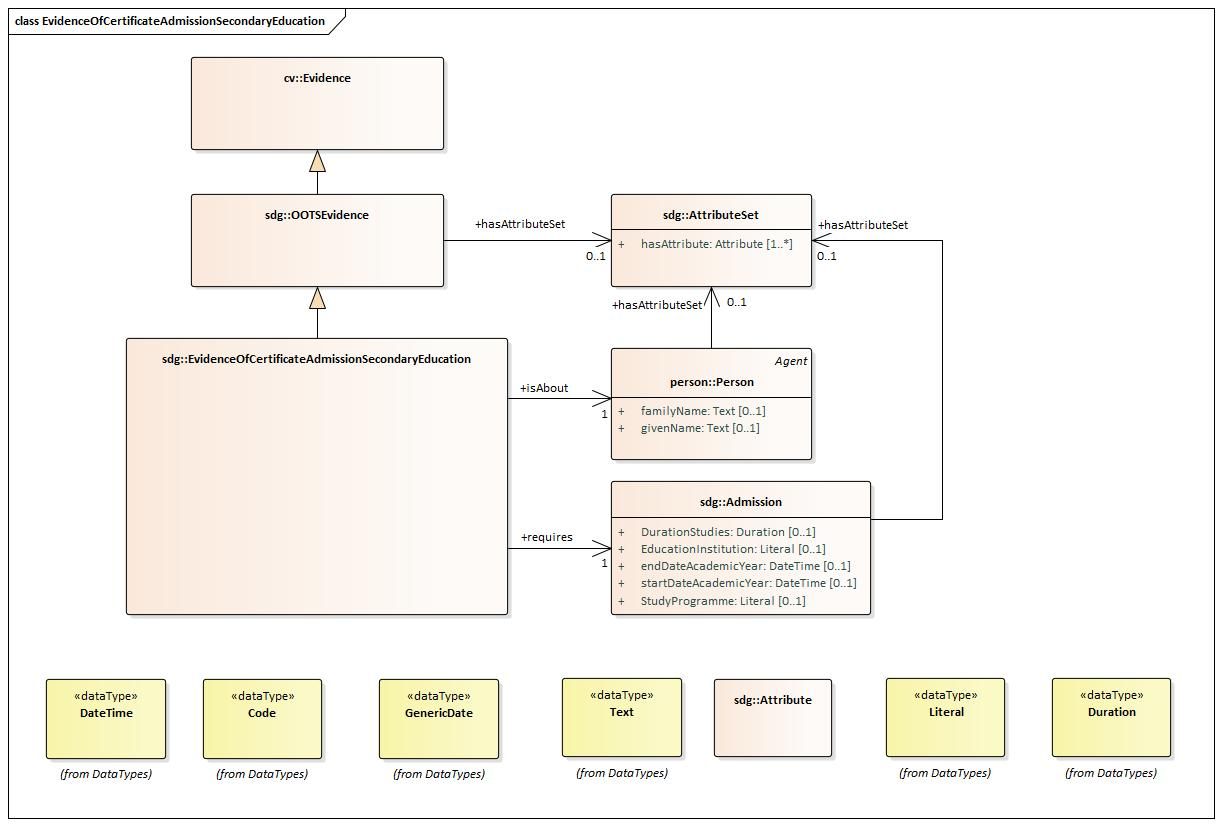
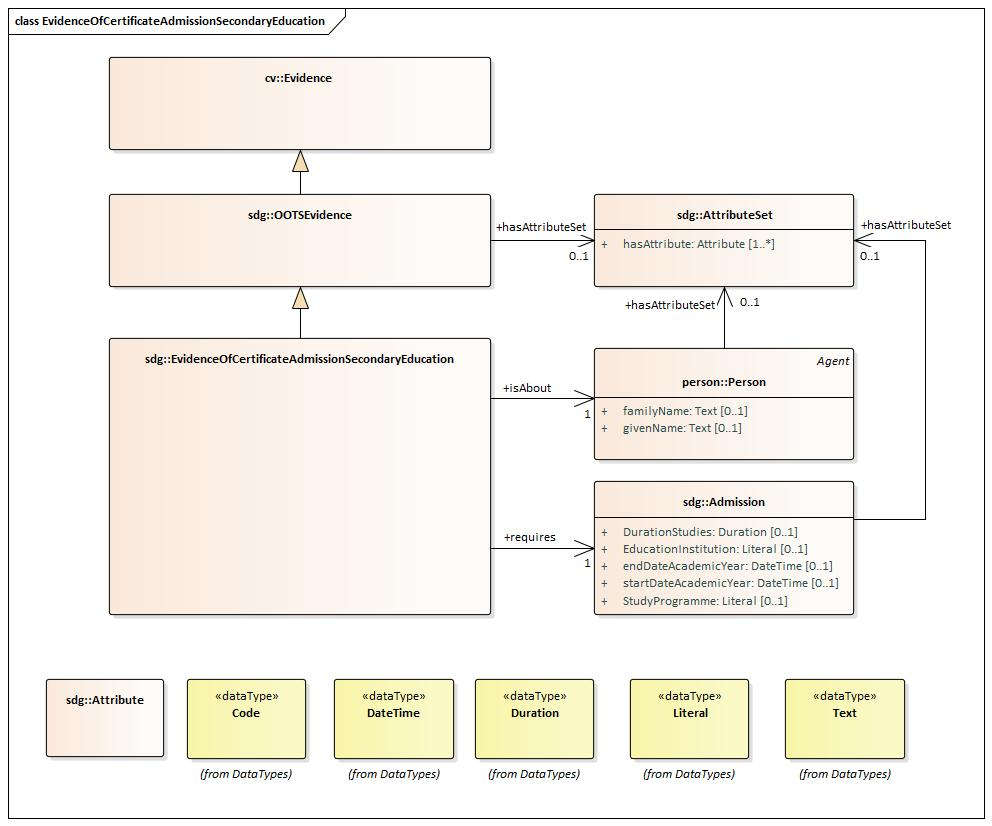
Update overview picture

diff --git a/OOTS/EvidenceOfCertificateAdmissionSecondaryEducation/0.0.1/index.html b/OOTS/EvidenceOfCertificateAdmissionSecondaryEducation/0.0.1/index.html
@@ -296,9 +296,9 @@ This specification uses the following prefixes to shorten the URIs for readibili
                 
     </div>
     <div>
-        <a href="./html/overview1.jpg"
+        <a href="./html/overview.jpg"
            target="_blank">
-            <img src="./html/overview1.jpg"/>
+            <img src="./html/overview.jpg"/>
         </a>
     </div>
 </section>
@@ -1767,34 +1767,7 @@ The properties are indicated as <it>mandatory, recommended, optional</it> and <i
 	</thead>
 	<tbody>
 		
-				
-					
-						
-					
-						
-					
-						
-					
-						
-					
-						
-					
-						
-					
-					
-						
-					
-						
-					
-						
-					
-						
-					
-						
-					
-						
-					
-					
+			
 						
 							<tr>
 								<td><a href="#Admission">Admission</a></td>